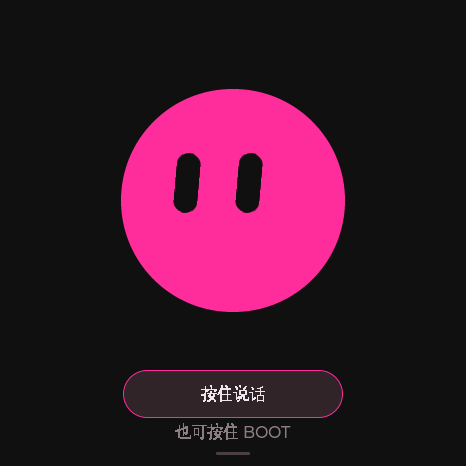
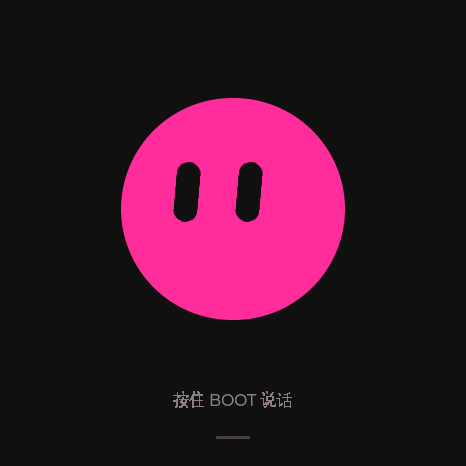
refactor: use physical BOOT voice input after device feedback

diff --git a/firmware/pet/components/pet_ui/pet_ui.c b/firmware/pet/components/pet_ui/pet_ui.c
@@ -18,18 +18,15 @@ static pet_ui_view_t view;
 static pet_ui_callback_t callback;
 static void *callback_context;
 static lv_obj_t *root,*body,*eyes[2],*smiles[2],*caption,*handle,*drawer,*connection_page;
-static lv_obj_t *talk_button,*talk_label,*talk_hint;
 static lv_obj_t *volume_slider,*brightness_slider,*quiet_switch,*captions_switch,*speaker_switch;
 static lv_obj_t *network_label,*bridge_label,*voice_label,*setup_label,*passkey_label,*power_label;
 static bool initialized,screen_on=true,syncing;
 static int page,requested_page=-1;
 static bool snapshot_requested;
-static bool talk_touching;
-static int requested_talk=-1;
 static int touch_x,touch_y;
 static bool touching;
-static char last_caption[321];
-static char last_entry[64],last_hint[64];
+static char last_caption[321],last_hint[64];
+static lv_obj_t *voice_hint;
 static void action(pet_ui_action_kind_t kind,int value){if(callback)callback((pet_ui_action_t){kind,value},callback_context);}
 static lv_obj_t *label(lv_obj_t *parent,const char *text,int width){
     lv_obj_t *o=lv_label_create(parent);lv_obj_set_style_text_font(o,&font,0);
@@ -38,16 +35,7 @@ static lv_obj_t *label(lv_obj_t *parent,const char *text,int width){
     lv_label_set_text(o,text);return o;
 }
 static void show_page(int next){
-    if(next&&talk_touching){talk_touching=false;action(PET_UI_TALK_CANCEL,0);}
     page=next;lv_obj_set_flag(drawer,LV_OBJ_FLAG_HIDDEN,next!=1);lv_obj_set_flag(connection_page,LV_OBJ_FLAG_HIDDEN,next!=2);
-}
-static void talk(lv_event_t *event){
-    lv_event_code_t code=lv_event_get_code(event);
-    if(code==LV_EVENT_PRESSED&&!talk_touching){talk_touching=true;action(PET_UI_TALK_PRESS,0);}
-    else if((code==LV_EVENT_RELEASED||code==LV_EVENT_PRESS_LOST)&&talk_touching){
-        talk_touching=false;
-        action(code==LV_EVENT_RELEASED?PET_UI_TALK_RELEASE:PET_UI_TALK_CANCEL,0);
-    }
 }
 static void touch(lv_event_t *event){
     lv_event_code_t code=lv_event_get_code(event);lv_point_t point;
@@ -123,13 +111,8 @@ static void draw(lv_timer_t *timer){
     (void)timer;pet_ui_view_t current;
     xSemaphoreTake(view_lock,portMAX_DELAY);current=view;
     int next=requested_page;requested_page=-1;bool snap=snapshot_requested;snapshot_requested=false;
-    int talk_edge=requested_talk;requested_talk=-1;
     xSemaphoreGive(view_lock);
     if(next>=0)show_page(next);
-    if(talk_edge>=0&&page==0){
-        lv_event_code_t code=talk_edge==0?LV_EVENT_PRESSED:talk_edge==1?LV_EVENT_RELEASED:LV_EVENT_PRESS_LOST;
-        lv_obj_send_event(talk_button,code,NULL);
-    }
     pet_pose_t p=current.pose;
     if(p.screen_on!=screen_on){
         screen_on=p.screen_on;pet_board()->panel_sleep(!screen_on);
@@ -139,7 +122,7 @@ static void draw(lv_timer_t *timer){
     int brightness=p.dim?current.brightness/4:current.brightness;
     pet_board()->set_brightness(brightness<5?5:brightness);
     int w=(int)(224*p.scale_x),h=(int)(224*p.scale_y);
-    lv_obj_set_size(body,w,h);lv_obj_set_pos(body,(466-w)/2,200-h/2+(int)p.offset_y);
+    lv_obj_set_size(body,w,h);lv_obj_set_pos(body,(466-w)/2,210-h/2+(int)p.offset_y);
     lv_obj_set_style_transform_pivot_x(body,w/2,0);lv_obj_set_style_transform_pivot_y(body,h/2,0);
     lv_obj_set_style_transform_rotation(body,(int)(p.rotation*10),0);
     bool happy=p.expression==PET_EXPR_HAPPY||p.expression==PET_EXPR_SLEEP;
@@ -157,22 +140,10 @@ static void draw(lv_timer_t *timer){
     else if(current.dialogue==PET_DIALOGUE_IDLE)text="";
     if(strcmp(last_caption,text)){snprintf(last_caption,sizeof(last_caption),"%s",text);lv_label_set_text(caption,last_caption);}
     lv_obj_set_flag(caption,LV_OBJ_FLAG_HIDDEN,!text[0]);
-    bool available=current.connection==PET_CONN_READY;
-    bool listening=current.dialogue==PET_DIALOGUE_LISTEN;
-    const char *entry=available?"按住说话":"连接后按住说话";
-    if(listening)entry="松开提交";
-    else if(current.held&&!available)entry="连接中，松开取消";
-    else if(available&&current.dialogue!=PET_DIALOGUE_IDLE)entry="按住打断";
-    if(strcmp(last_entry,entry)){
-        snprintf(last_entry,sizeof(last_entry),"%s",entry);lv_label_set_text(talk_label,last_entry);
-        uint32_t background=listening?0xfa2c99:available?0x32272e:0x242124;
-        lv_obj_set_style_bg_color(talk_button,lv_color_hex(background),0);
-        lv_obj_set_style_bg_color(talk_button,lv_color_hex(background),LV_STATE_PRESSED);
-        lv_obj_set_style_border_color(talk_button,lv_color_hex(available?0xfa2c99:0x494146),0);
-        lv_obj_set_style_text_color(talk_label,lv_color_hex(listening?0x101010:0xeee4eb),0);
-    }
-    const char *hint=listening?(current.touch_recording?"滑出按钮可取消":"松开 BOOT 后提交"):"也可按住 BOOT";
-    if(strcmp(last_hint,hint)){snprintf(last_hint,sizeof(last_hint),"%s",hint);lv_label_set_text(talk_hint,last_hint);}
+    const char *hint=current.connection==PET_CONN_READY?"按住 BOOT 说话":"语音连接中";
+    if(current.dialogue==PET_DIALOGUE_LISTEN)hint="松开 BOOT 后提交";
+    else if(current.connection==PET_CONN_READY&&current.dialogue!=PET_DIALOGUE_IDLE)hint="按住 BOOT 打断";
+    if(strcmp(last_hint,hint)){snprintf(last_hint,sizeof(last_hint),"%s",hint);lv_label_set_text(voice_hint,last_hint);}
     if(page==1){
         syncing=true;lv_slider_set_value(volume_slider,current.volume,LV_ANIM_OFF);
         lv_slider_set_value(brightness_slider,current.brightness,LV_ANIM_OFF);
@@ -192,7 +163,7 @@ static void build(void){
     root=lv_screen_active();lv_obj_remove_style_all(root);lv_obj_set_style_bg_color(root,lv_color_hex(0x101010),0);
     lv_obj_set_style_bg_opa(root,LV_OPA_COVER,0);lv_obj_remove_flag(root,LV_OBJ_FLAG_SCROLLABLE);
     lv_obj_add_event_cb(root,touch,LV_EVENT_ALL,NULL);
-    body=lv_obj_create(root);lv_obj_remove_style_all(body);lv_obj_set_size(body,224,224);lv_obj_set_pos(body,121,88);
+    body=lv_obj_create(root);lv_obj_remove_style_all(body);lv_obj_set_size(body,224,224);lv_obj_set_pos(body,121,98);
     lv_obj_set_style_radius(body,LV_RADIUS_CIRCLE,0);lv_obj_set_style_bg_color(body,lv_color_hex(0xfa2c99),0);
     lv_obj_set_style_bg_opa(body,LV_OPA_COVER,0);lv_obj_add_flag(body,LV_OBJ_FLAG_EVENT_BUBBLE);lv_obj_remove_flag(body,LV_OBJ_FLAG_SCROLLABLE);
     for(unsigned i=0;i<2;i++){
@@ -205,16 +176,11 @@ static void build(void){
         lv_obj_set_style_arc_rounded(smiles[i],true,LV_PART_MAIN);lv_obj_set_style_arc_opa(smiles[i],LV_OPA_TRANSP,LV_PART_INDICATOR);
         lv_obj_set_style_bg_opa(smiles[i],LV_OPA_TRANSP,LV_PART_KNOB);lv_obj_remove_flag(smiles[i],LV_OBJ_FLAG_CLICKABLE|LV_OBJ_FLAG_SCROLLABLE);lv_obj_add_flag(smiles[i],LV_OBJ_FLAG_HIDDEN);
     }
-    caption=label(root,"",300);lv_obj_set_pos(caption,83,324);lv_obj_set_height(caption,38);lv_label_set_long_mode(caption,LV_LABEL_LONG_WRAP);
-    talk_button=lv_button_create(root);lv_obj_set_size(talk_button,220,48);lv_obj_set_pos(talk_button,123,370);
-    lv_obj_set_style_radius(talk_button,24,0);lv_obj_set_style_shadow_width(talk_button,0,0);
-    lv_obj_set_style_bg_color(talk_button,lv_color_hex(0x242124),0);lv_obj_set_style_border_width(talk_button,1,0);
-    lv_obj_remove_flag(talk_button,LV_OBJ_FLAG_SCROLLABLE|LV_OBJ_FLAG_EVENT_BUBBLE|LV_OBJ_FLAG_PRESS_LOCK);
-    talk_label=label(talk_button,"连接后按住说话",0);lv_obj_center(talk_label);
-    lv_obj_add_event_cb(talk_button,talk,LV_EVENT_ALL,NULL);
-    talk_hint=label(root,"也可按住 BOOT",220);lv_obj_set_pos(talk_hint,123,423);
-    lv_obj_set_style_text_color(talk_hint,lv_color_hex(0x8b7f87),0);
-    handle=lv_button_create(root);lv_obj_remove_style_all(handle);lv_obj_set_size(handle,60,20);lv_obj_align(handle,LV_ALIGN_BOTTOM_MID,0,-3);
+    caption=label(root,"",300);lv_obj_set_pos(caption,83,334);lv_obj_set_height(caption,38);lv_label_set_long_mode(caption,LV_LABEL_LONG_WRAP);
+    voice_hint=label(root,"语音连接中",260);lv_obj_set_pos(voice_hint,103,391);
+    lv_obj_remove_flag(voice_hint,LV_OBJ_FLAG_CLICKABLE|LV_OBJ_FLAG_SCROLLABLE);
+    lv_obj_set_style_text_color(voice_hint,lv_color_hex(0x8b7f87),0);
+    handle=lv_button_create(root);lv_obj_remove_style_all(handle);lv_obj_set_size(handle,72,42);lv_obj_align(handle,LV_ALIGN_BOTTOM_MID,0,-8);
     lv_obj_t *bar=lv_obj_create(handle);lv_obj_remove_style_all(bar);lv_obj_set_size(bar,34,3);lv_obj_center(bar);
     lv_obj_set_style_bg_color(bar,lv_color_hex(0x494146),0);lv_obj_set_style_bg_opa(bar,LV_OPA_COVER,0);lv_obj_set_style_radius(bar,2,0);lv_obj_remove_flag(bar,LV_OBJ_FLAG_CLICKABLE);
     lv_obj_add_event_cb(handle,open_drawer,LV_EVENT_CLICKED,NULL);
@@ -256,9 +222,3 @@ void pet_ui_update(const pet_ui_view_t *next){if(view_lock){xSemaphoreTake(view_
 void pet_ui_home(void){pet_ui_bench_page(0);}
 void pet_ui_bench_page(int next){if(view_lock&&next>=0&&next<=2){xSemaphoreTake(view_lock,portMAX_DELAY);requested_page=next;xSemaphoreGive(view_lock);}}
 void pet_ui_request_snapshot(void){if(view_lock){xSemaphoreTake(view_lock,portMAX_DELAY);snapshot_requested=true;xSemaphoreGive(view_lock);}}
-bool pet_ui_bench_talk(int edge){
-    if(!view_lock||edge<0||edge>2)return false;
-    xSemaphoreTake(view_lock,portMAX_DELAY);bool accepted=requested_talk<0;
-    if(accepted)requested_talk=edge;
-    xSemaphoreGive(view_lock);return accepted;
-}

diff --git a/firmware/pet/components/pet_core/pet_core.c b/firmware/pet/components/pet_core/pet_core.c
@@ -41,32 +41,6 @@ uint32_t pet_step(pet_state_t *s,pet_event_t e) {
     if(e.now_ms<s->now_ms)e.now_ms=s->now_ms;
     s->now_ms=e.now_ms;
     if(voice_event(e.kind) && (e.generation!=s->generation || e.turn!=s->turn)) return PET_FX_NONE;
-    /* BOOT owns a shared hold. Releasing it must not let a finger silently
-     * restart capture; that finger has to lift before starting another turn. */
-    switch(e.kind) {
-    case PET_EV_PRESS:
-        if(s->boot_held)return PET_FX_NONE;
-        s->boot_held=true;if(s->touch_held)s->touch_blocked=true;
-        break;
-    case PET_EV_RELEASE:
-        if(!s->boot_held)return PET_FX_NONE;
-        s->boot_held=false;if(s->touch_held)s->touch_blocked=true;
-        break;
-    case PET_EV_TOUCH_PRESS:
-        if(s->touch_held)return PET_FX_NONE;
-        s->touch_held=true;
-        if(s->boot_held||s->touch_blocked){s->touch_blocked=true;return PET_FX_NONE;}
-        e.kind=PET_EV_PRESS;break;
-    case PET_EV_TOUCH_RELEASE:
-    case PET_EV_TOUCH_CANCEL: {
-        bool owned=s->touch_held&&!s->boot_held&&!s->touch_blocked;
-        s->touch_held=false;s->touch_blocked=false;
-        if(!owned)return PET_FX_NONE;
-        e.kind=e.kind==PET_EV_TOUCH_RELEASE?PET_EV_RELEASE:PET_EV_CANCEL;
-        break;
-    }
-    default:break;
-    }
     uint32_t fx=PET_FX_NONE;
     switch(e.kind) {
     case PET_EV_PRESS:
@@ -89,10 +63,8 @@ uint32_t pet_step(pet_state_t *s,pet_event_t e) {
         fx=PET_FX_CANCEL;
         if(s->dialogue==PET_DIALOGUE_LISTEN) fx|=PET_FX_STOP;
         s->held=false; s->expired=false; s->dialogue=PET_DIALOGUE_IDLE;
-        s->touch_blocked=s->touch_held;
         s->playback_empty=true; s->response_done=false;
         break;
-    case PET_EV_TOUCH_PRESS:case PET_EV_TOUCH_RELEASE:case PET_EV_TOUCH_CANCEL:break;
     case PET_EV_LINK:
         if(e.generation<s->generation || e.value<PET_CONN_OFFLINE || e.value>PET_CONN_UNAVAILABLE) break;
         if(e.generation!=s->generation || e.value!=PET_CONN_READY) {
@@ -215,8 +187,7 @@ pet_gesture_t pet_gesture(int x0,int y0,int x1,int y1) {
 }
 bool pet_event_urgent(pet_event_kind_t kind){
     /* Audio buffer/done/drain events share a FIFO: promoting only done would reorder the stream. */
-    return kind==PET_EV_PRESS||kind==PET_EV_RELEASE||kind==PET_EV_CANCEL||kind==PET_EV_LINK||
-           kind==PET_EV_TOUCH_PRESS||kind==PET_EV_TOUCH_RELEASE||kind==PET_EV_TOUCH_CANCEL;
+    return kind==PET_EV_PRESS||kind==PET_EV_RELEASE||kind==PET_EV_CANCEL||kind==PET_EV_LINK;
 }
 
 bool pet_network_should_sleep(const pet_state_t *state){return state->life==PET_LIFE_SLEEP&&!state->usb;}

diff --git a/firmware/pet/main/pet_app.c b/firmware/pet/main/pet_app.c
@@ -70,7 +70,7 @@ static void effects(uint32_t fx,pet_event_kind_t kind){
     }
 }
 static void reduce(pet_event_t event){
-    if((event.kind==PET_EV_PRESS||event.kind==PET_EV_TOUCH_PRESS)&&pet_app_state().setup)pet_provision_open(false);
+    if(event.kind==PET_EV_PRESS&&pet_app_state().setup)pet_provision_open(false);
     xSemaphoreTake(model_lock,portMAX_DELAY);uint32_t fx=pet_step(&model,event);xSemaphoreGive(model_lock);
     effects(fx,event.kind);atomic_store(&phase,13);
 }
@@ -87,14 +87,7 @@ static void credit(uint32_t g,uint32_t t,void *ctx){
 }
 static void audio_fault(void *ctx){(void)ctx;atomic_store(&emergency,true);}
 static void ui_action(pet_ui_action_t action,void *ctx){
-    (void)ctx;
-    /* Capture edges cannot wait behind a slider/animation queue. */
-    if(action.kind==PET_UI_TALK_PRESS||action.kind==PET_UI_TALK_RELEASE||action.kind==PET_UI_TALK_CANCEL){
-        pet_event_kind_t kind=action.kind==PET_UI_TALK_PRESS?PET_EV_TOUCH_PRESS:
-                              action.kind==PET_UI_TALK_RELEASE?PET_EV_TOUCH_RELEASE:PET_EV_TOUCH_CANCEL;
-        pet_app_post((pet_event_t){.kind=kind});return;
-    }
-    if(xQueueSend(actions,&action,0)!=pdTRUE){atomic_store(&emergency,true);}
+    (void)ctx;if(xQueueSend(actions,&action,0)!=pdTRUE){atomic_store(&emergency,true);}
 }
 void pet_app_caption(uint32_t g,uint32_t t,const char *text){
     xSemaphoreTake(metadata_lock,portMAX_DELAY);
@@ -154,8 +147,6 @@ static void refresh(void){
     ui.pose=pet_pose(&s,now);ui.dialogue=s.dialogue;ui.connection=s.connection;
     ui.volume=c.volume;ui.brightness=c.brightness;ui.quiet=c.quiet;ui.captions=c.captions;ui.speaker=c.speaker;
     ui.task_channel=s.task_channel;ui.waiting_long=s.dialogue==PET_DIALOGUE_WAIT&&now-s.entered_ms>=20000;
-    ui.held=s.held;
-    ui.touch_recording=s.dialogue==PET_DIALOGUE_LISTEN&&s.touch_held&&!s.boot_held&&!s.touch_blocked;
     snprintf(ui.mac,sizeof(ui.mac),"%s",mac_connected?"Mac 桥接已连接":network_connected?"正在寻找已配对 Mac":"等待网络连接");
     snprintf(ui.voice,sizeof(ui.voice),"%s",s.connection==PET_CONN_READY?(s.task_channel?"小糖原生语音就绪":"语音可用，任务通道恢复中"):"小糖原生语音尚未就绪");
     pet_ui_view_t current=ui;xSemaphoreGive(metadata_lock);

diff --git a/firmware/pet/components/pet_ui/pet_ui.h b/firmware/pet/components/pet_ui/pet_ui.h
@@ -2,8 +2,7 @@
 #include "pet_core.h"
 #include "esp_err.h"
 typedef enum {PET_UI_PET,PET_UI_WAKE,PET_UI_VOLUME,PET_UI_BRIGHTNESS,PET_UI_QUIET,
-              PET_UI_CAPTIONS,PET_UI_SPEAKER,PET_UI_SETUP_OPEN,PET_UI_SETUP_CLOSE,
-              PET_UI_TALK_PRESS,PET_UI_TALK_RELEASE,PET_UI_TALK_CANCEL} pet_ui_action_kind_t;
+              PET_UI_CAPTIONS,PET_UI_SPEAKER,PET_UI_SETUP_OPEN,PET_UI_SETUP_CLOSE} pet_ui_action_kind_t;
 typedef struct {pet_ui_action_kind_t kind;int value;} pet_ui_action_t;
 typedef struct {
     pet_pose_t pose;
@@ -11,7 +10,7 @@ typedef struct {
     pet_connection_t connection;
     char caption[321],wifi[80],mac[80],voice[80],setup[96];
     int volume,brightness,battery,passkey;
-    bool quiet,captions,speaker,task_channel,waiting_long,held,touch_recording;
+    bool quiet,captions,speaker,task_channel,waiting_long;
 } pet_ui_view_t;
 typedef void (*pet_ui_callback_t)(pet_ui_action_t action,void *context);
 esp_err_t pet_ui_start(pet_ui_callback_t callback,void *context);
@@ -19,4 +18,3 @@ void pet_ui_update(const pet_ui_view_t *view);
 void pet_ui_home(void);
 void pet_ui_request_snapshot(void);
 void pet_ui_bench_page(int page);
-bool pet_ui_bench_talk(int edge);

diff --git a/firmware/pet/components/pet_core/pet_core.h b/firmware/pet/components/pet_core/pet_core.h
@@ -10,9 +10,7 @@ typedef enum { PET_EXPR_IDLE, PET_EXPR_HAPPY, PET_EXPR_GREET, PET_EXPR_LISTEN, P
 typedef enum { PET_EV_TICK, PET_EV_PET, PET_EV_PRESS, PET_EV_RELEASE, PET_EV_CANCEL,
                PET_EV_LINK, PET_EV_BUFFERED, PET_EV_PLAYING, PET_EV_RESPONSE_DONE, PET_EV_DRAIN,
                PET_EV_CLOCK, PET_EV_USB, PET_EV_QUIET, PET_EV_MUTED, PET_EV_SETUP,
-               PET_EV_TASK_CHANNEL, PET_EV_TOUCH_PRESS, PET_EV_TOUCH_RELEASE,
-               PET_EV_TOUCH_CANCEL } pet_event_kind_t;
-#define PET_TOUCH_INPUT_VERSION 1
+               PET_EV_TASK_CHANNEL } pet_event_kind_t;
 enum { PET_FX_NONE=0, PET_FX_START=1, PET_FX_STOP=2, PET_FX_SUBMIT=4, PET_FX_CANCEL=8,
        PET_FX_CONNECT=16, PET_FX_WAKE=32, PET_FX_SAVE_QUOTA=64 };
 typedef struct {
@@ -32,7 +30,6 @@ typedef struct {
     int minute, level;
     bool usb, quiet, muted, setup, held, expired, clock_valid, response_done, playback_empty;
     bool task_channel;
-    bool boot_held,touch_held,touch_blocked;
 } pet_state_t;
 typedef struct {
     pet_expression_t expression;

diff --git a/firmware/pet/main/pet_console.c b/firmware/pet/main/pet_console.c
@@ -24,10 +24,6 @@ static void command(const char *line){
     else if(!strcmp(line,"pet.page settings")){pet_ui_bench_page(1);}
     else if(!strcmp(line,"pet.page connection")){pet_ui_bench_page(2);}
     else if(!strcmp(line,"pet.pet")){pet_app_post((pet_event_t){.kind=PET_EV_PET});printf("@pet.pet ok\n");}
-    else if(!strcmp(line,"pet.touch down")||!strcmp(line,"pet.touch up")||!strcmp(line,"pet.touch lost")){
-        int edge=!strcmp(line,"pet.touch down")?0:!strcmp(line,"pet.touch up")?1:2;
-        printf("@pet.touch %s\n",pet_ui_bench_talk(edge)?"queued":"busy");
-    }
     else if(!strcmp(line,"pet.setup open")){pet_provision_open(true);printf("@pet.setup ok\n");}
     else if(!strcmp(line,"pet.setup close")){pet_provision_open(false);printf("@pet.setup ok\n");}
     else if(!strcmp(line,"pet.setup status")){pet_provision_status(status,sizeof(status));printf("@pet.setup %s\n",status);}

diff --git a/docs/VOICE_INPUT.md b/docs/VOICE_INPUT.md
@@ -1,29 +1,24 @@
-# 屏幕与实体按键的语音入口
+# 用实体 BOOT 与小糖说话
 
-主屏下方提供常驻「按住说话」按钮，实体 **BOOT** 也保留同样的按住录音方式。
+语音由实体 **BOOT** 控制，屏幕下方只显示提示，没有可点击的说话按钮。触屏继续用于抚摸、唤醒、上划设置和调整音量。
 
-| 状态 | 屏幕按钮 | 操作 |
+| 状态 | 屏幕提示 | 操作 |
 |---|---|---|
-| 就绪 | 按住说话 | 按住录音，松开提交 |
-| 录音 | 松开提交 | 触屏时滑出按钮取消；BOOT 录音时松开 BOOT 提交 |
-| 等待／回答 | 按住打断 | 取消旧播放并开始新一轮 |
-| 未连接 | 连接后按住说话 | 先确认 Wi-Fi、Mac 桥接与原生语音；按住时显示连接进度，松开后不会在稍后偷偷录音 |
+| 就绪 | 按住 BOOT 说话 | 按住实体 BOOT 录音 |
+| 录音 | 松开 BOOT 后提交 | 松开 BOOT 提交 |
+| 等待／回答 | 按住 BOOT 打断 | 取消旧回复并开始新一轮 |
+| 未连接 | 语音连接中 | 检查 Wi-Fi、Mac 桥接与原生语音 |
 
-按钮不接收抚摸或上划设置的事件；圆脸仍可抚摸，底部设置入口仍可使用。字幕关闭也不会隐藏语音按钮或操作提示。
+字幕开关不会隐藏 BOOT 操作提示。少于100 ms的短按不提交，单次录音上限55秒；断网时松开不会稍后自动开麦。
 
-触屏和 BOOT 同时按住时，以 **BOOT** 为准：手指松开不会提前提交，松开 BOOT 才结束这一轮；残留手指必须先抬起，才能开始下一轮。触屏滑出后再划回不会重新开始录音，需抬起后重新按住。少于 100 ms 的短按不提交，录音上限仍为 55 秒。
+![设备主屏](pet-device-screen.png)
 
-![就绪主屏](pet-device-screen.png)
-![录音状态](pet-touch-listening-screen.png)
+## 设计反馈与验收
 
-## 本次验证
+实验版曾同时提供触屏按钮与 BOOT；参考设备使用者已确认两种方式均能完成语音对话，但认为圆屏按钮过小、不易按准，因此选择实体 BOOT 作为语音入口。最终版移除该触屏按钮和其录音事件，保留非交互提示。实验记录保留在 [历史台架记录](touch-entry-validation.json)，不作为最终版验收。
 
-- 完整目标构建通过；83 项主机测试通过、零跳过，包含触屏松开、滑出取消、短按、离线时先松开、连接恢复及 BOOT 交叠。
-- 独立 C/UI 审查核对了 LVGL 9.5 的滑出行为和关键事件投递。
-- 已在参考设备完成完整私人备份、应用槽写入及校验、启动与原设置核对。未改 Wi-Fi、配对、音量或引导元数据。
-- 串口注入真实 LVGL 按钮回调，验证开始录音、滑出取消、下一轮录音；安静台架不提交语音、不播放回答。
-- 上图从设备导出，字幕和配对码已隐藏。回调注入不等于实体手指手感或完整声学验收；结果边界见 [本轮记录](touch-entry-validation.json)。
+最终版构建、回归和设备状态以 [验收说明](VALIDATION.md) 及 [本轮检查](boot-entry-validation.json) 为准。屏幕图从设备导出，导出时隐藏字幕与配对码。
 
 ## 升级保护
 
-公开安装器新增支持已确认、CRC 正确且实际选择 ota_0 的记录。仍会拒绝活动 ota_1、待确认、损坏或回滚记录，写前继续逐字节核对启动元数据。全 FF 空白记录也拒绝：ESP-IDF 第一次启动会初始化它，不能把会变化的元数据当作稳定恢复基线。本轮当前设备使用已确认的 ota_0 路径。
+安装器支持已确认、CRC正确且实际选择ota_0的启动记录，写前核对元数据，仅写应用槽。拒绝活动ota_1、待确认、损坏或回滚记录，以及首次启动可能变化的全FF空白记录。升级前须保存并验证完整私人备份。

diff --git a/README.md b/README.md
@@ -1,6 +1,6 @@
 # Grok Bot ESP32 Companion · 小糖 AI 陪伴宠物
 
-[English](README.en.md) · [快速开始](docs/GETTING_STARTED.zh-CN.md) · [触屏／按键语音入口](docs/VOICE_INPUT.md) · [架构](docs/宠物固件架构.md) · [验收与限制](docs/VALIDATION.md) · [贡献指南](CONTRIBUTING.md)
+[English](README.en.md) · [快速开始](docs/GETTING_STARTED.zh-CN.md) · [实体按键语音入口](docs/VOICE_INPUT.md) · [架构](docs/宠物固件架构.md) · [验收与限制](docs/VALIDATION.md) · [贡献指南](CONTRIBUTING.md)
 
 把 **微雪 ESP32-S3-Touch-AMOLED-1.43C** 变成一个会眨眼、会回应抚摸、可以按住说话的桌面 AI 小宠物。设备运行独立宠物固件，Mac 负责桥接你已有的 Grok Bot；保留 Bot 的原生声音、上下文和任务能力。
 
@@ -19,7 +19,7 @@
 | 能力 | 当前实现 |
 |---|---|
 | 陪伴互动 | 本地呼吸、眨眼、抚摸反馈；断网时仍能互动和调整设置 |
-| 原生对话 | 触屏「按住说话」或 BOOT 录音、松开提交；触屏滑出取消，播放时再按住清除旧音频并开始新问题 |
+| 原生对话 | 按住实体 BOOT 录音、松开提交；播放时再次按住清除旧音频并开始新问题；屏幕仅显示操作提示 |
 | 界面 | 程序绘制粉色圆脸、听说状态、短字幕、音量／亮度／安静模式与连接页 |
 | 联网 | 2.4 GHz Wi-Fi；配对 Mac 的局域网发现与保存地址回退 |
 | 配置 | USB 配网；限时、带六位码认证的 BLE 配网，蓝牙不承担日常语音 |

diff --git a/docs/PROTOCOL.md b/docs/PROTOCOL.md
@@ -10,7 +10,7 @@
 
 设备音频为 16 kHz、单声道、16 位 PCM；Mac 根据原生会话格式转换。连接代数和轮次共同隔离旧字幕、状态、音频。按下取消旧播放和响应，清空本地队列；松开要等录音尾块确认后提交。回答的云端完成与设备实际排空分别处理，不能提前回到待机。
 
-触屏按钮和实体 BOOT 共用语音轮次。触屏按下／松开／滑出取消均直接进入关键事件队列；BOOT 接管时忽略手指的松开，避免提前提交，松开 BOOT 后残留的手指不会自动重开录音。宠物抚摸／上划回调不接收语音按钮的冒泡事件。
+实体 BOOT 控制语音轮次：按下开始录音或打断旧回复，松开提交。触屏只负责抚摸、唤醒和设置，不产生语音录制事件。
 
 播放使用有界队列和 credits。新问题令已出队旧块也失效；过载采用取消／重连，断线不重传旧录音。Mac 未播放音频最多约 180 秒。
 

diff --git a/README.en.md b/README.en.md
@@ -2,7 +2,7 @@
 
 [简体中文](README.md) · [Setup guide](docs/GETTING_STARTED.zh-CN.md) · [Validation](docs/VALIDATION.md)
 
-A standalone companion-pet firmware for the **Waveshare ESP32-S3-Touch-AMOLED-1.43C** and a macOS bridge to an existing Grok Bot. The round-screen pet blinks, breathes and responds locally to touch. Hold the on-screen voice button or BOOT to talk; release to receive the Bot's native voice, with its conversation context and task capabilities.
+A standalone companion-pet firmware for the **Waveshare ESP32-S3-Touch-AMOLED-1.43C** and a macOS bridge to an existing Grok Bot. The round-screen pet blinks, breathes and responds locally to touch. Hold the physical BOOT button to talk; release to receive the Bot's native voice, with its conversation context and task capabilities.
 
 ![Actual device screen](docs/pet-device-screen.png)
 

diff --git a/CHANGELOG.md b/CHANGELOG.md
@@ -2,8 +2,8 @@
 
 ## Unreleased
 
-- Add a visible on-screen hold-to-talk button alongside BOOT, release-to-submit and slide-out cancellation.
-- Arbitrate simultaneous touch and BOOT holds, with BOOT taking ownership and no residual-finger replay.
+- Keep voice on the physical BOOT button: hold to record, release to submit, hold again to interrupt.
+- Remove the experimental touch voice button after real-device feedback; touchscreen remains for petting and settings.
 - Display connection/listening/interruption instructions independently of conversation captions.
 - Accept CRC-validated, confirmed ota_0 boot records for application-only upgrades; never rewrite boot metadata. Reject erased OTA records, whose first-boot initialization would otherwise invalidate safe recovery checks.
 
